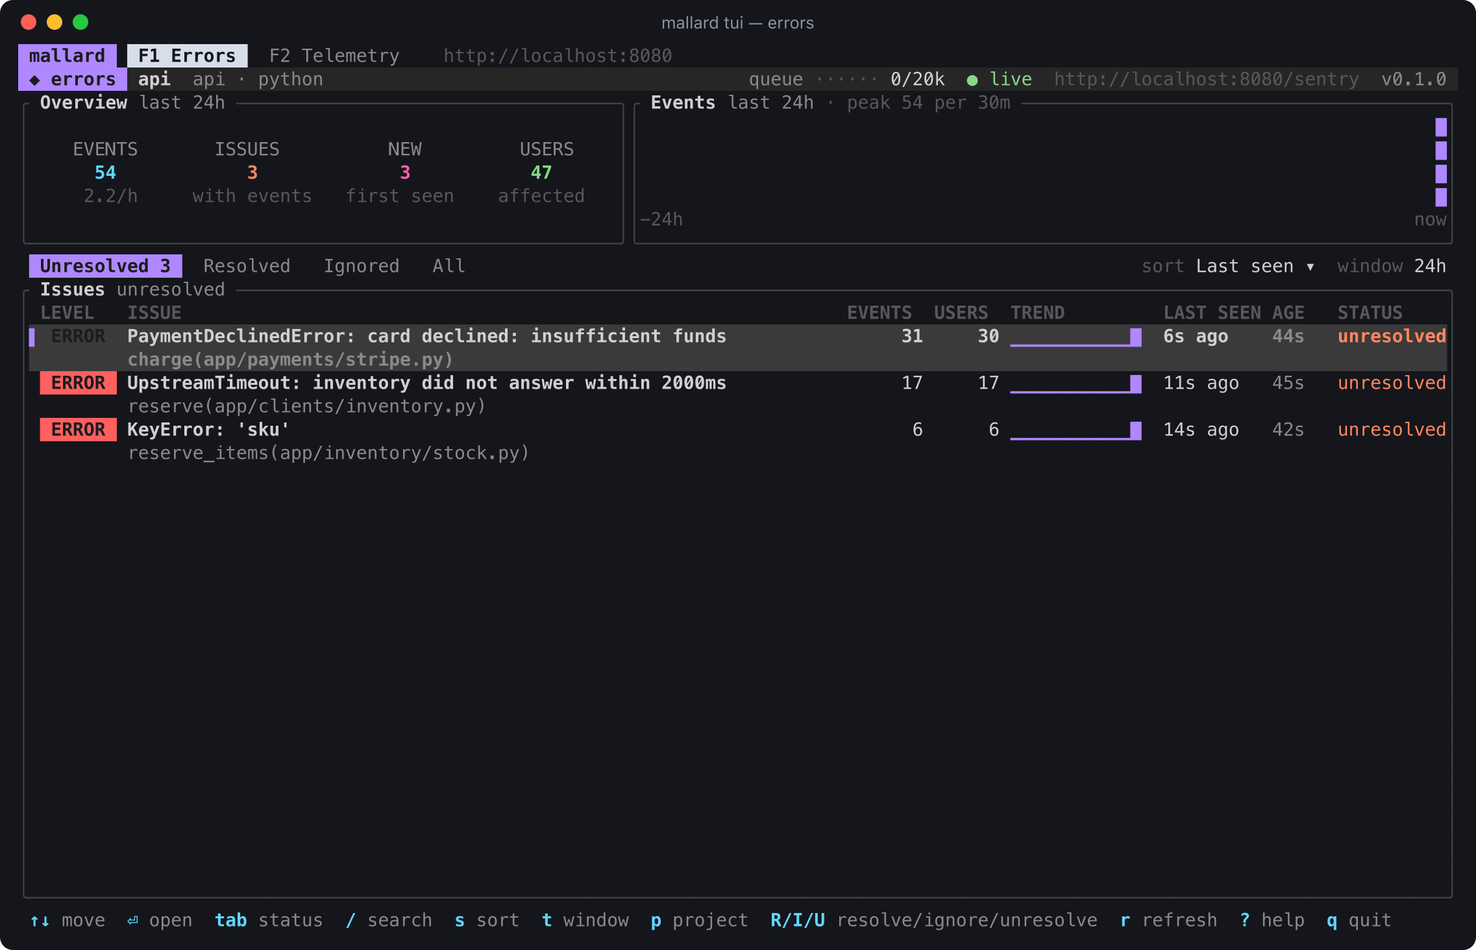
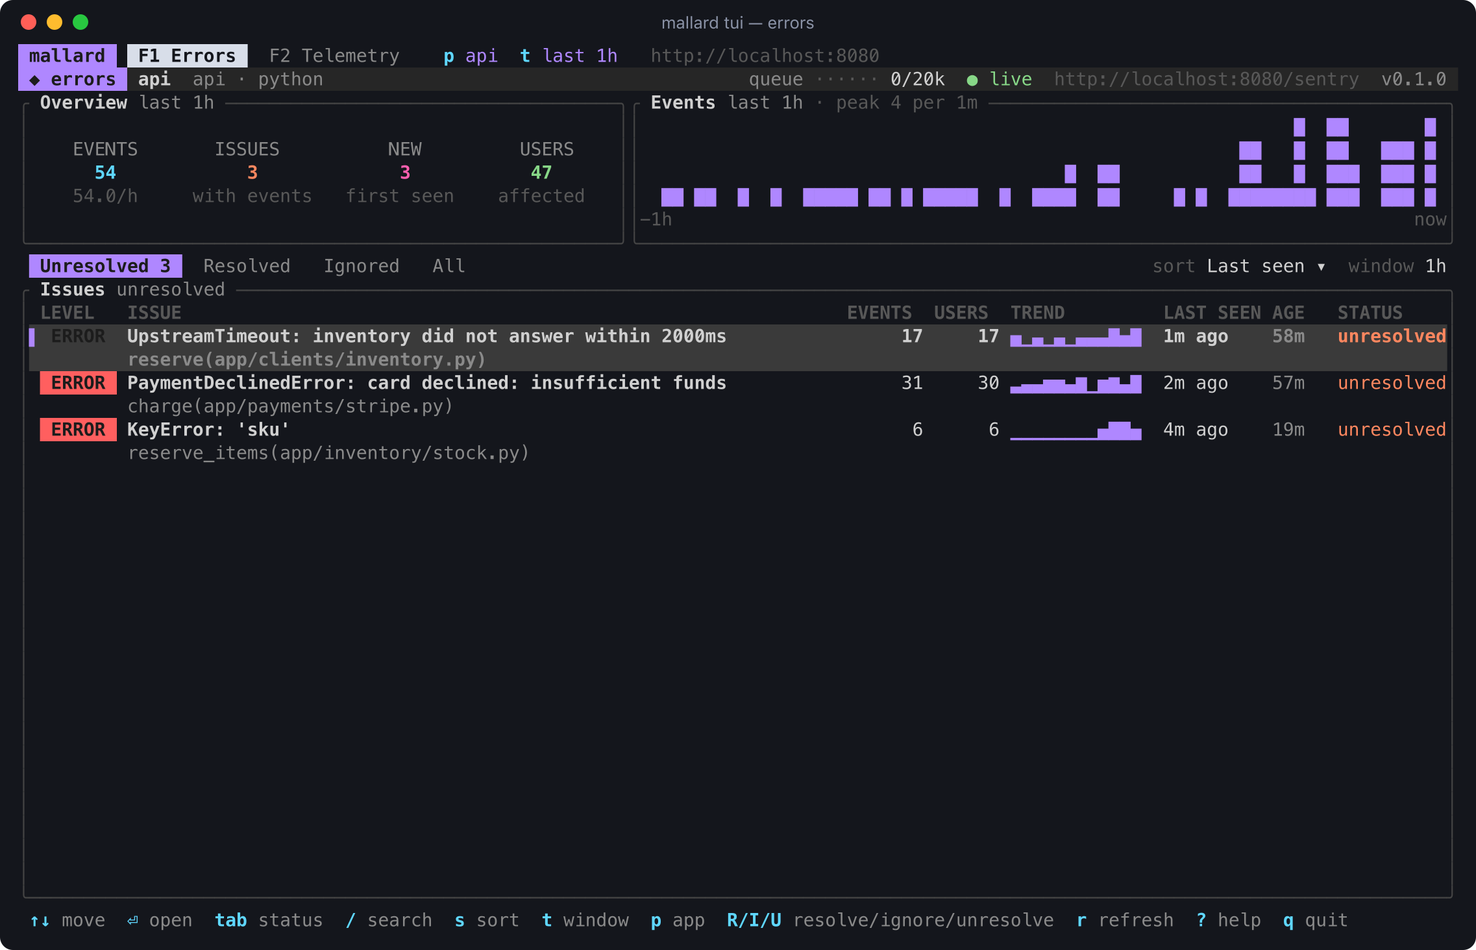
Epic 0004 story 03 done: docs, screenshots, parity rows, follow-ups

diff --git a/docs/cli.md b/docs/cli.md
@@ -30,7 +30,7 @@ One flat tree (ADR 0008). For AI agents: [agents.md](agents.md), also
 | `mallard sql "<select>" [--errors]` | read-only SQL over the telemetry tables, or with `--errors` over `events`, `issues`, `issue_activity` (exit 7 when off; ADR 0011; `-n` rows and 32 MiB per answer, ADR 0015) |
 | `mallard schema [tables]`, `mallard schema attrs` | the tables and columns `sql` can query, per `side` (`errors` tables need `sql --errors`); attribute keys with counts, or the top values of `--key` (`--signal spans\|logs\|metrics`, `-S`, `--metric`; sampled) |
 | `mallard sourcemaps list`, `mallard send-test` | uploaded bundles; send a test error to a DSN |
-| `mallard tui [-p project]` | both TUIs as tabs: F1 errors, F2 telemetry |
+| `mallard tui [-p project \| --app slug]` | both TUIs as tabs, one app and one time window: F1 errors, F2 telemetry |
 | `mallard web [--addr a]` | the Web UI on `127.0.0.1:8088`: the same screens and keys in a browser |
 
 The server commands read the config from `-c/--config` or `MALLARD_CONFIG`, put
@@ -59,6 +59,7 @@ Global (any position):
 | `--url` | `MALLARD_URL` | server base URL |
 | `--token` | `MALLARD_TOKEN` | API token |
 | `-p, --project` | `MALLARD_PROJECT` | Sentry project id or slug; optional with one project |
+| `--app slug` | | an app (`mallard apps`): its project and its services, in place of `-p` and `-S` |
 | `--format text\|json\|ndjson` | `MALLARD_FORMAT` | output format; `--json` = `--format json` |
 | `--fields a,b` | | keep only these top-level fields (unknown field: exit 2) |
 | `--raw` | | include raw payloads (Sentry `payload`, resource attributes) |
@@ -80,6 +81,20 @@ Per command, the same letter for the same thing on both sides:
 
 Default windows differ where the data does: issues 14d, events all (30d
 with `--trace`), traces/logs/metrics 1h, `trace` and `find` 7d.
+
+`--app <slug>` works where `-p` or `-S` do: `issues`, `events`, `releases`, `sourcemaps`,
+`find`, `series errors` take the app's project; `traces list`, `logs`, `ops`, `metrics`,
+`schema attrs`, `series spans|logs` take all its service names (ADR 0027, 0028). There is no
+`app=` in any filter.
+
+- It replaces `-p` and `-S`: giving one next to it is exit 2. `MALLARD_PROJECT` is only a
+  default and gives way to the flag. An empty `--app ""` means no app.
+- Everywhere else it is exit 2, and so is `events list --trace`, which looks in all projects.
+- A side the app lacks, or an unknown app, is exit 4 with what to do, never an empty list
+  that looks like "no errors". An app's services are those with data in the command's window
+  or the last 24 hours. So `--wait` does not wait for an app's first data; use `-S` for that.
+- If the list of apps had warnings and the side is not in it, that is exit 6, because the side
+  may only be unreadable. Otherwise the warnings go to stderr and the command runs.
 
 ## Output
 
@@ -130,15 +145,47 @@ These keys mean the same on both tabs and every screen (the list is
 | `?` | help |
 | `ctrl-c` | quit |
 | `F1` `F2` | switch tab (`mallard tui`) |
+| `p` | choose the app, on every screen (`mallard tui`; `mallard errors tui`: switch project) |
 
 Screen keys:
 
 | tab | keys |
 |---|---|
-| errors, issue list | `s` sort, `p` project, `R` `I` `U` resolve / ignore / unresolve |
+| errors, issue list | `s` sort, `R` `I` `U` resolve / ignore / unresolve; `d` the last 24h, on an empty list in a shorter window |
 | errors, issue detail | `[` `]` older / newer event, `a` in-app frames, `w` raw frames, `R` `I` `U` |
 | telemetry, traces | `E` errors only, `l` logs of the trace; `⚠ n`: Sentry errors of the trace or span, `x` on a marked span opens its error |
 | telemetry, logs | `s` severity, `space` follow, `o` open the trace, `c` clear filter |
 | telemetry, metrics | `a` `A` aggregation, `b` group by |
 
 Writes (issue status) are capitals, so `r` can never change data.
+
+### One app and one time window (`mallard tui`)
+
+The top bar shows the app and the window of both tabs. `p` opens the picker. "All apps" is the
+default: telemetry shows every service, and the errors tab asks you to pick an app, because
+errors are per project. `-p` or `--app` is the first choice. An app without a side says so on
+that tab, with what to do. Opening an event of another project moves the picker along.
+
+`t` and `T` change the window on both tabs: 5m, 15m, 1h, 6h, 24h, 7d, 14d, 30d, up to the smaller
+of the two sides' `max_window_secs`, starting at 1h. The errors tab on its own (`mallard errors
+tui`) keeps its 24h start and its own list. An empty issue list in a window under 24h offers `d`:
+show last 24h, so older issues do not look like no issues.
+
+### Suggestions in a filter
+
+The `/` filters of traces, logs and issues suggest keys, then values with counts. `tab` accepts,
+`↑↓` choose, `↵` still applies what is typed. Typing never waits on the server: answers come in
+the background, per window and app, and a failure is at most the small note "suggestions
+unavailable".
+
+| filter | keys | values from |
+|---|---|---|
+| traces | `service=`, `op=`, `errors`, `min=`, `max=`, span attributes | `/services` (inside an app: its services), `/operations`, `/attributes` |
+| logs | `service=`, `level=`, `trace=`, log attributes | `/services` (inside an app: its services), the levels, `/attributes` |
+| issues | tags of the project | `/projects/{p}/tags` |
+
+In the issue filter, `key=value` is a tag filter and the other words search the text, as in the
+web UI. In an app, `service=` can only name one of its services: another is refused with a message
+and nothing is read for it. `trace=` on logs follows the trace across apps, because it asks by id.
+`op=` values come from at most the last 24h. Difference with the web UI, on purpose: there a
+suggestion is taken only after you move to it; here the first one is ready for `tab`.

diff --git a/work/epics/0004-apps-and-search/03-tui-and-cli.md b/work/epics/0004-apps-and-search/03-tui-and-cli.md
@@ -1,5 +1,5 @@
 ---
-status: todo
+status: done
 created: 2026-11-01
 ---
 # 03 — TUI and CLI
@@ -22,6 +22,63 @@ say `--app`.
 After stories 1 and 2. Put the suggestion list in `mallard-term`, so both tabs use
 one widget. Fetch in the background and cache per window.
 
+Steps (2026-11-01):
+1. Client: `service` on the telemetry query structs becomes a list that the client
+   sends as repeated parameters (left out of serialization, the `tag` pattern). The
+   OpenAPI document stays the same.
+2. CLI: global `--app <slug>`, worked out in one new file `crates/mallard/src/scope.rs`.
+   It reads `/api/v1/apps` once, before the command runs. Rule: `--app` replaces `-p` and
+   `-S`, so giving either next to it on the command line is exit 2; `MALLARD_PROJECT` from
+   the environment gives way to the flag. A missing side or unknown app is exit 4; if the
+   list had warnings it is exit 6, because the side may only be unreadable. A command
+   with neither `-p` nor `-S` use is exit 2.
+3. `mallard-term`: `tui::suggest` (the widget, no I/O: edits go in, what to fetch comes out,
+   debounce, cache per scope, cleaning at the door), `tui::Scope` and the window presets.
+4. Telemetry pane: `set_scope`, `set_hosted`; scoped queries; empty state; suggestions in
+   the trace and log filters. Errors pane: the same, `key=value` in `/` become tag filters
+   (else tag suggestions have nothing to filter), `d` jump to 24h on an empty list.
+5. Host (`crates/mallard/src/tui.rs`): the picker (`p`), one window (`t`/`T`), the bar.
+   Panes in a host return `Ignored` for `t`, `T`, `p`, so all the logic sits in the host.
+6. Docs, agent CLI tests, a real run in a pseudo-terminal, screenshots if they changed.
+
 ## Progress log
+- 2026-11-01: Built as planned. Decisions the criteria left open:
+  - `--app` with `-p` or `-S` on the command line is always exit 2, also when they would agree.
+    `MALLARD_PROJECT` gives way to the flag: a default must not make an explicit flag fail.
+  - An app's services are read for the command's window plus the last 24h, so a quiet app does
+    not look unknown under `--since 5m`. The list is read once, so `--wait` does not wait for an
+    app's first data: exit 4, and the hint says to use `-S`.
+  - Missing from a list with warnings is exit 6, not 4 (as `find`: a side that failed never turns
+    into "not found"). `--app` where it cannot apply, and `events list --trace`, are exit 2.
+  - `service` on the query structs is now a list that serialization leaves out, the `tag` pattern.
+    Not with `skip_serializing` as planned: the OpenAPI derive then drops the parameter (the
+    test caught it), so `skip_serializing_if`. The documents stay the same.
+  - In `mallard tui` the tabs return `t`, `T` and `p` as `Ignored` and the host acts on them, so one
+    place holds the window and the app. The tabs on their own keep their old keys and windows.
+  - The issue filter reads `key=value` as a tag, the other words as text. The criteria only ask
+    for tag suggestions, which would have nothing to filter on otherwise. A text search for `a=b`
+    is now a tag filter, as in the web UI (a message from the web side, same day).
+  - `d` jumps to 24h on an empty issue list. Asks the host through `Outcome::SetWindow`.
+  - Opening an event of another project (from `x`) moves the picker along, so that it never
+    disagrees with what is shown, also on the telemetry tab.
+- 2026-11-01: The web side finished first, and its rules were adopted here: empty `--app` is no app;
+  `p` is in `keys::SHARED` (no clash in `mallard tui`; the log detail popup, which takes every key, lets it
+  through; the tabs on their own leave it out of their help); `op=` values read at most 24h;
+  "switched to X" on a project change; `docs/web/parity.md` rows updated. Knowing differences:
+  a `service=` outside the app is refused with a message and the old filter stays, as every bad filter
+  in the TUI (nothing is read for it; the web UI empties the view). `-p` is the picker's first choice,
+  and `-p` next to `--app` is exit 2, where the web UI lets a project in the URL win. Tab takes the
+  first suggestion without moving to it (the web UI waits until you move; parity.md says intended).
+- Real run: `mallard serve` with `scripts/demo-seed.py`, the real binary in a pseudo-terminal, frames
+  read through a terminal emulator: All apps, the picker, an app without a project and one without
+  telemetry, `t` on both tabs, tag and `op=` and `level=` suggestions, Tab, `d`, `service=` outside
+  the app, `trace=` across apps, help. CLI: `--app` on logs and issues, a missing side (exit 4), `-p`
+  next to it (exit 2). No fault in what was looked at.
+- Screenshots regenerated: the top bar has the app and the window, and errors start at 1h.
 
 ## Follow-ups
+- [issue 0146](../../issues/0146-telemetry-tui-draws-uncleaned-text.md): the telemetry tab draws
+  some server text without cleaning it (bidi characters reach the terminal).
+- [issue 0147](../../issues/0147-project-flag-ignored-without-a-project.md): `-p` is silently
+  ignored where it means nothing, where `--app` is exit 2.
+- [issue 0143](../../issues/0143-find-cli-hides-warnings.md) is fixed: `mallard find` prints warnings.

diff --git a/docs/architecture.md b/docs/architecture.md
@@ -24,13 +24,13 @@
 
 | crate | role |
 |---|---|
-| `mallard` | The one product binary (ADR 0023): one flat command tree (ADR 0008) mounting `mallard-sentry-cli` and `mallard-otel-cli` commands, plus `status`, `setup`, `apps`, `find`, `trace`, `series`, `help agents`, `tui`; `errors …`/`telemetry …` are hidden aliases. These speak HTTP only. Feature `server` (on by default) adds `serve`, `check`, `maintenance`, `install-extensions` from `mallard-server`; with `--no-default-features` the same CLI and TUI build with no DuckDB (CI checks `cargo tree`). |
+| `mallard` | The one product binary (ADR 0023): one flat command tree (ADR 0008) mounting `mallard-sentry-cli` and `mallard-otel-cli` commands, plus `status`, `setup`, `apps`, `find`, `trace`, `series`, `help agents`, `tui` (the host holds the app picker and the one time window of both tabs); `--app` is worked out once in `scope.rs`; `errors …`/`telemetry …` are hidden aliases. These speak HTTP only. Feature `server` (on by default) adds `serve`, `check`, `maintenance`, `install-extensions` from `mallard-server`; with `--no-default-features` the same CLI and TUI build with no DuckDB (CI checks `cargo tree`). |
 | `mallard-web` | The Web UI behind `mallard web` (ADR 0016): the React app built in, plus a same-origin proxy that holds the token or a signed-in user's session and passes only what the TUI uses. HTTP only, like the TUI; no DuckDB, no server code. |
 | `mallard-server` | A library, run by `mallard serve`. Loads config, opens the shared catalog (`mallard_duck::open_connection`), builds both sides on it, mounts their routers, `/api/v1/apps`, `/api/v1/find` (`src/api.rs`), `/healthz`, `/readyz` (both sides) and `/metrics`, runs their background jobs and the shutdown order. The bridge (`src/bridge/`, ADR 0009, 0013, 0021) turns Sentry transactions and streamed spans into OTel spans and OTel exceptions into Sentry events through the libraries' hooks. `commands` is what the server commands run, and the only place that installs logging and the Prometheus recorder (`mallard-common`). |
 | `mallard-api` | The types of `/api/v1/...`, shared by `mallard-server` and the CLI, so the slim build needs no server crate. |
 | `mallard-common` | Shared by both sides (ADR 0005): duration/size parsing, query windows, the `ApiError` body; with feature `server` the config loader, bearer tokens, HTTP helpers (`ApiErr`, `Q`, `J`, `require_bearer`, CORS, docs page, readiness), logging, signals, Prometheus. |
 | `mallard-duck` | The only crate that depends on `duckdb`: `[storage]`/`[duckdb]` types, `open_connection`, extensions, secrets, SQL quoting, identifier check, redaction, object-store options for sourcemaps, and the read-only SQL guard (`sql`) both sides' SQL endpoints use (ADR 0011). |
-| `mallard-term` | Terminal output shared by both CLIs, both TUIs and the host: cleaning untrusted text, tables (plain when piped), formats, colour, error kinds and exit codes, the output contract (`--format`, `--fields`, list envelope, `--quiet` notes), window flags and `--wait` polling (ADR 0006, 0008), TUI theme, keys and `Outcome`. Depends on neither client. |
+| `mallard-term` | Terminal output shared by both CLIs, both TUIs and the host: cleaning untrusted text, tables (plain when piped), formats, colour, error kinds and exit codes, the output contract (`--format`, `--fields`, list envelope, `--quiet` notes), window flags and `--wait` polling (ADR 0006, 0008), TUI theme, keys, `Outcome`, `Scope` (the chosen app), the window presets and `tui::suggest` (the filter bar's list, no I/O). Depends on neither client. |
 | `mallard-client` | Wraps `mallard-sentry-client` (`<url>/sentry`) and `mallard-otel-client` (`<url>/otel`) behind one base URL + token; trace correlation (spans + errors + logs). |
 | `mallard-sentry-*` | Sentry side. See [sentry/architecture.md](sentry/architecture.md). |
 | `mallard-otel-*` | OpenTelemetry side. See [otel/architecture.md](otel/architecture.md). |

diff --git a/docs/web/parity.md b/docs/web/parity.md
@@ -1,6 +1,6 @@
 # Web UI and TUI parity
 
-State on 2026-11-01.
+State on 2026-11-01. Epic 0004 changed the app scope and the window; rows below say so, and since story 0004/03 the TUI follows the same rules (`mallard tui`; the errors and telemetry tabs on their own keep their earlier keys and windows).
 
 The TUI source is the reference (`crates/mallard/src/tui.rs`, `crates/sdl-cli/src/tui/`,
 `crates/odl-cli/src/tui/`, `crates/mallard-term/`). The web UI was driven with the
@@ -38,12 +38,12 @@ changed in the browser, because the seeded data has no such case.
 | Footer hints per screen | Always shown | Help and tooltips instead | intended |
 | `r` refresh | Reloads the current screen, also log records | Same | ok |
 | `r` flash | "refreshing…" on telemetry | None (toast on a trace only) | intended |
-| `t` `T` presets | Errors 1h 24h 7d 14d 30d; telemetry 5m 15m 1h 6h 24h 7d; wrap around | Same, same `interval` per window | ok |
-| Default windows | Errors 24h, telemetry 1h | Same | ok |
-| Window kept per side | One window per side | Kept across F1/F2 | ok |
+| `t` `T` presets | The union, 5m to 30d, cut to the smaller `max_window_secs` of the two sides; wrap around | Same (story 0004/04) | ok |
+| Default windows | 1h; an empty issue list offers `d`: show last 24h | 1h; an empty issue list offers "Show last 24h" (story 0004/04) | ok |
+| Window across F1/F2 | One window for both sides (ADR 0028) | Same | ok |
 | Window across `1`-`5` | One window for all views | One window for all views | ok |
-| `t` flash | "time window: last X" on telemetry | None | intended |
-| `t` on issue detail | Ignored | Changes the window | intended |
+| `t` flash | None; the top bar shows the window | None | ok |
+| `t` on issue detail | Changes the window | Changes the window | ok |
 | `t` on trace detail and Status | Cycles the window | Does nothing, no window control there | intended |
 | UTC everywhere | Yes | Yes in Tokyo: tables, facts, tooltips, title attributes, hover labels, chart axes | ok |
 | Text cleaning | `clean` / `clean_text` | Same output on 6 hostile strings | ok |
@@ -87,7 +87,12 @@ changed in the browser, because the seeded data has no such case.
 | R when already that status | Sends PATCH, toast | Toast "Already resolved", sends nothing | intended |
 | Empty state | "✓ No unresolved issues matching "x" in the last 7d" + hint | Same words, with buttons | ok |
 | No projects, unknown project | Hint with the command; error | Same idea | ok |
-| `p` project picker | Overlay: j k ↑↓ Enter; Esc q p close | Kumo menu: arrows, Enter, Esc | intended |
+| `p` picker | One app picker, on every screen, scoping both sides (ADR 0028): j k ↑↓ Enter; Esc q p close | One app picker in the top bar, on every screen, scoping both sides (ADR 0028): Kumo menu, arrows, Enter, Esc | intended |
+| Errors with All apps | Asks to pick an app: issues are per project (ADR 0028) | Same | ok |
+| A side the app lacks | Says so, with `mallard setup <app>` | Same | ok |
+| Filter suggestions | The list shows while typing; Tab takes the selected row, the first unless you moved; ↑↓ choose; ↵ applies what is typed | The list opens while typing or on ↓; nothing is taken until you move to it, then Enter or Tab takes it. Otherwise Tab moves the focus, as in a browser | intended |
+| Issue search | Text, and `tag=value` | Same | ok |
+| Cmd-K, app home page | None | Web only (stories 0004/04, 05) | intended |
 | Project picker reloads projects | Yes | Only with `r` (code) | **differs** |
 | Project switch | Toast "switched to X", keeps filters | Same | ok |
 

diff --git a/docs/agents.md b/docs/agents.md
@@ -47,7 +47,7 @@ Exit codes:
 | 1 | internal error | report it |
 | 2 | usage: bad flag, id, window or field | fix the call (see `--help`) |
 | 3 | auth: missing or wrong token | set `MALLARD_TOKEN` |
-| 4 | not found (or `find` found nothing) | check the id, widen `--since` |
+| 4 | not found (or `find` found nothing; `--app`: no such app, or it lacks that side) | check the id, widen `--since` |
 | 5 | conflict | |
 | 6 | unavailable: server down, busy, timeout; `status` with a side down | retry later |
 | 7 | turned off on the server (SQL) | ask for `otel.query.enable_sql = true` (`sql --errors`: `sentry.query.enable_sql`) |
@@ -74,10 +74,19 @@ mallard logs -S checkout -q "order 42" --since 5m --wait 20s
 
 **Which apps are there?** An app is a project and the services with the same slug, or
 either alone. `project` is null without a project, `services` empty without telemetry
-in the window. Use the slug with `-p`; use a name from `services` with `-S`.
+in the window. Use the slug with `--app`: it means the project on `issues`, `events`,
+`releases`, `sourcemaps`, `find` and `series errors`, and all its service names on `traces list`,
+`logs`, `ops`, `metrics`, `schema attrs` and `series spans|logs`.
 ```sh
 mallard apps --since 7d --json --fields slug,project,services
+mallard issues list --app checkout --since 1h
+mallard logs --app checkout -l warn --since 10m
 ```
+`--app` replaces `-p` and `-S`: both together is exit 2 (`MALLARD_PROJECT` just gives way), and so
+is `--app` on a command that uses neither, or `events list --trace`. An app without that side, or
+an unknown app, is exit 4, not an empty list; the message says what to do. If the list of apps
+is incomplete then it is exit 6: retry. Services count with data in the command's window or the
+last 24h, so `--wait` does not wait for an app's first data: use `-S <name> --wait` then.
 
 **What is this id?** (pasted from a log or a bug report)
 ```sh

diff --git a/work/queue.md b/work/queue.md
@@ -6,9 +6,9 @@
 4. [issue 0123 chart memory defaults below the rule](issues/0123-chart-memory-defaults-below-the-rule.md)
 5. [issue 0135 other {{auto}} IP paths](issues/0135-other-auto-ip-paths.md)
 6. [issue 0128 window message names a short key](issues/0128-window-message-names-short-key.md)
-7. [0004/03 TUI and CLI](epics/0004-apps-and-search/03-tui-and-cli.md)
-8. [0004/04 web scope and search](epics/0004-apps-and-search/04-web-scope-and-search.md)
-9. [0004/05 web app home](epics/0004-apps-and-search/05-web-app-home.md)
-10. [issue 0142 project slugs with `_` split apps](issues/0142-project-slugs-with-underscore-split-apps.md)
-11. [issue 0143 `mallard find` hides warnings](issues/0143-find-cli-hides-warnings.md)
-12. [issue 0144 OTLP flushes conflict with Sentry ingest](issues/0144-otel-flush-conflicts-with-sentry-ingest.md)
+7. [0004/04 web scope and search](epics/0004-apps-and-search/04-web-scope-and-search.md)
+8. [0004/05 web app home](epics/0004-apps-and-search/05-web-app-home.md)
+9. [issue 0142 project slugs with `_` split apps](issues/0142-project-slugs-with-underscore-split-apps.md)
+10. [issue 0144 OTLP flushes conflict with Sentry ingest](issues/0144-otel-flush-conflicts-with-sentry-ingest.md)
+11. [issue 0146 telemetry TUI draws uncleaned text](issues/0146-telemetry-tui-draws-uncleaned-text.md)
+12. [issue 0147 `-p` silently ignored without a project](issues/0147-project-flag-ignored-without-a-project.md)

diff --git a/README.md b/README.md
@@ -24,7 +24,8 @@ has the same CLI and TUI with no server and no DuckDB.
 ## The terminal UI
 
 `mallard tui`: errors on F1, telemetry on F2, and `x` jumps between them by
-trace id.
+trace id. One app picker (`p`) and one time window (`t`) for both, and filters
+that suggest keys and values while you type.
 
 **An issue, with the trace of the request that failed** — open an issue,
 press `x`, and the telemetry tab shows that request's spans with the failing
@@ -117,6 +118,7 @@ mallard find <id>                         # trace, event or issue id: what is it
 mallard trace <trace-id>                  # spans + errors + logs of one trace
 mallard traces list --errors              # telemetry: traces, logs, services, ops, metrics, sql
 mallard logs --around <time> -S checkout  # logs around an error
+mallard logs --app checkout -l warn       # --app: one app's project and services
 mallard tui                               # F1 errors, F2 telemetry
 mallard issues list -n 20 --json --fields id,title,count
 ```

diff --git a/work/issues/0146-telemetry-tui-draws-uncleaned-text.md b/work/issues/0146-telemetry-tui-draws-uncleaned-text.md
@@ -1,0 +1,20 @@
+---
+status: todo
+type: bug
+created: 2026-11-01
+---
+# Telemetry TUI draws server text without cleaning it
+
+## Problem
+ADR 0006 says every text from a server goes through `mallard_term::text::clean`. The errors tab
+does it for each response (`Resp::sanitized`). The telemetry tab does it in some places only
+(`widgets::trunc`). Service, operation and root span names in the overview and the trace list go
+straight into a `Span` or `Cell` (`views/overview.rs`, `views/traces.rs`). ratatui drops control
+characters, but a bidi override such as U+202E reaches the terminal.
+
+## How to reproduce
+Send a span whose `service.name` holds U+202E. Open F2 and look at the Services table.
+
+## Notes
+Found while building story 0004/03. New text from that story is cleaned: suggestions, the picker,
+the top bar, the empty states.

diff --git a/work/issues/0147-project-flag-ignored-without-a-project.md b/work/issues/0147-project-flag-ignored-without-a-project.md
@@ -1,0 +1,15 @@
+---
+status: todo
+type: debt
+created: 2026-11-01
+---
+# `-p` is silently ignored where it means nothing
+
+## Problem
+`-p` is a global flag, so `mallard services -p web` and `mallard events list --trace <id> -p web`
+run and ignore it. The second one lists events of all projects, which looks like an answer for
+`web`. `--app` is a usage error (exit 2) in those places (story 0004/03).
+
+## Notes
+A usage error for `-p` would break scripts that set it on every call, and `MALLARD_PROJECT` must
+stay harmless. So it needs a choice: a note on stderr, or an error for the flag only.

diff --git a/docs/otel/cli.md b/docs/otel/cli.md
@@ -26,7 +26,8 @@ mallard sql "SELECT name, count(*) FROM spans WHERE start_time > now()::TIMESTAM
 
 ## TUI
 
-`mallard tui` opens both sides as tabs; F2 is this one, with five views. It refreshes
+`mallard tui` opens both sides as tabs, with one app picker (`p`) and one time window
+([cli.md](../cli.md)); F2 is this one, with five views. It refreshes
 itself (every 5 s, the log tail every 2 s) and keeps your selection across refreshes.
 
 | view | shows |
